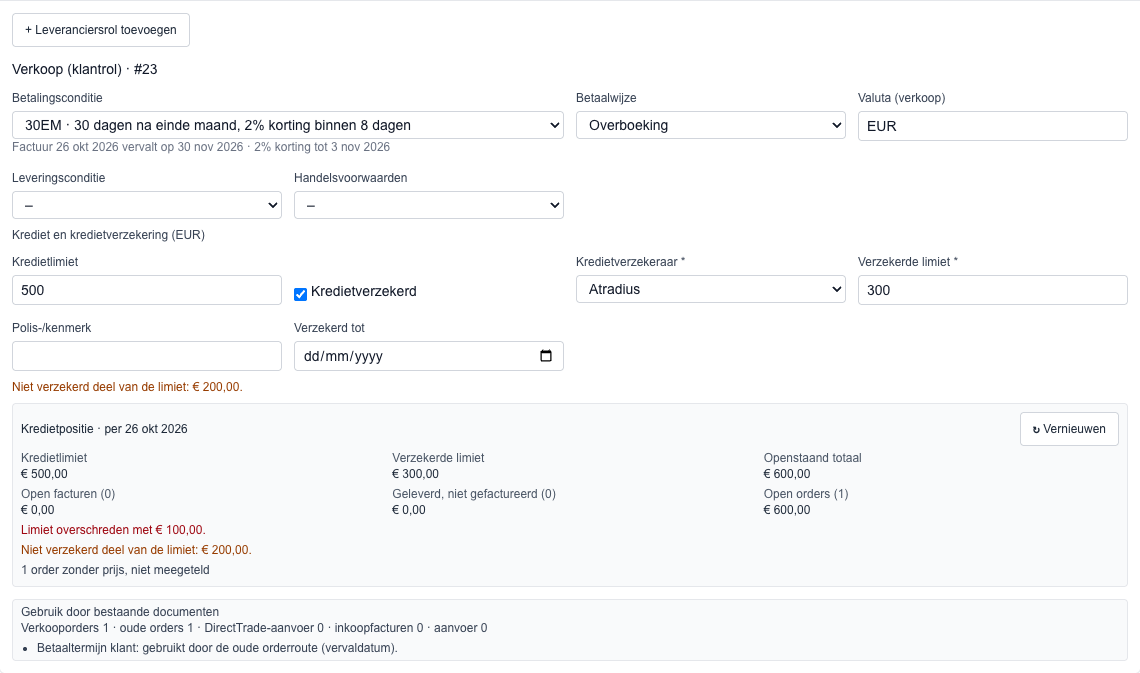
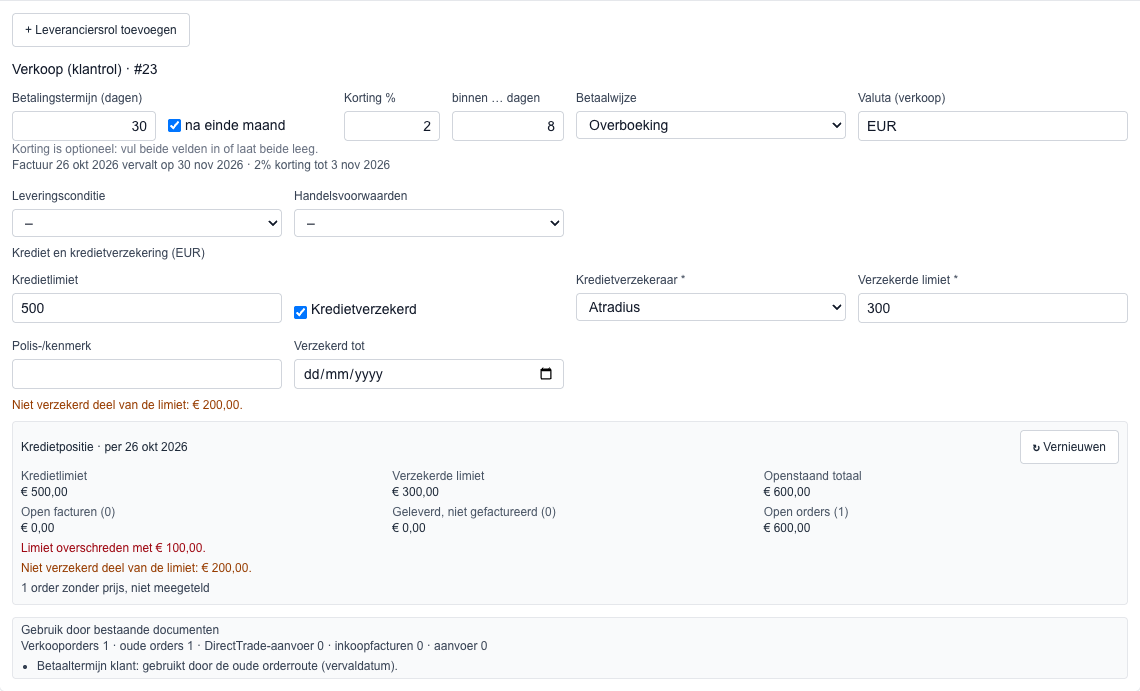
Relaties: screenshots vrije betalingstermijn
Nieuw: 15 (termijn vrij ingevuld), 16 (met korting), 17 (390 px). Opnieuw
gemaakt: 02 en 13, die nog de keuzelijst met betalingscondities toonden.

diff --git a/docs/relaties-fase2-2026-10/README.md b/docs/relaties-fase2-2026-10/README.md
@@ -1,11 +1,11 @@
 # Relaties fase 2 (PR 1): screenshots
 
-Echte UI (Playwright met geïnstalleerde Chrome) tegen de lokale database `agf_smoke`, smokelabel `SMOKE-FIN-8914`.
+Echte UI (Playwright met geïnstalleerde Chrome) tegen de lokale database `agf_smoke`, smokelabel `SMOKE-FIN-8914`; de vrije betalingstermijn (vervolg op #55) met smokelabel `SMOKE-TERMS-9FC3`.
 
 | Bestand | Wat je ziet |
 |---|---|
 | `01-instellingen-betalingscondities.png` | Instellingen: nieuwe conditie 30EM (einde maand, 2% korting binnen 8 dagen) met voorbeeldvervaldatum. |
-| `02-relatie-bank-krediet.png` | Klantrol: betalingsconditie, kredietlimiet, verzekering en kredietpositie met overschrijding, verzekeringsgat en "1 order zonder prijs, niet meegeteld". |
+| `02-relatie-bank-krediet.png` | Klantrol: betalingstermijn 30 dagen na einde maand met 2% korting binnen 8 dagen (vrije invoer, geen keuzelijst meer), kredietlimiet, verzekering en kredietpositie met overschrijding, verzekeringsgat en "1 order zonder prijs, niet meegeteld". |
 | `03-bankrekening-onbevestigd.png` | Nieuwe bankrekening: geldige IBAN maar "Niet bevestigd"; bevestigen kan pas met een naam bij "Wie". |
 | `03b-bankwaarschuwing-banner.png` | Opvallende melding op de kaart: standaardbankrekening niet bevestigd, plus de e-mail- en verzekeringswaarschuwingen. |
 | `04-bankrekening-bevestigd.png` | Na bevestigen: "Bevestigd door … op …" en de wijzigingsregels (toegevoegd, bevestigd). |
@@ -17,5 +17,8 @@ Echte UI (Playwright met geïnstalleerde Chrome) tegen de lokale database `agf_s
 | `10-ontvangst-ggn-waarschuwing.png` | Ontvangst: gekozen GGN met verlopen certificaat geeft een waarschuwing (niet blokkerend). |
 | `11-mobiel-390-relatie.png` | Relatiekaart op 390 px: krediet en bankrekeningen. |
 | `12-mobiel-390-instellingen.png` | Instellingen op 390 px: de knoppen staan onder de omschrijving. |
-| `13-relatie-en.png` | Relatiekaart (klantrol en krediet) in het Engels. |
+| `13-relatie-en.png` | Relatiekaart (klantrol met vrije betalingstermijn en krediet) in het Engels. |
 | `14-betalingsconditie-in-gebruik.png` | Verwijderen van een gebruikte conditie (30D) geweigerd, met de aantallen en "Inactief zetten". |
+| `15-termijn-vrij-ingevuld.png` | Betalingstermijn getypt: 45 dagen, "na einde maand" aangevinkt, geen korting; de voorbeeldregel rekent bij elke toetsaanslag mee. Leeg veld toont de standaard grijs ("30 (standaard)"). |
+| `16-termijn-met-korting.png` | Zelfde termijn met 2% korting binnen 10 dagen: de voorbeeldregel toont nu ook de kortingsdatum. Eén kortingsveld leeg gelaten = fout bij het lege veld en daar de focus. |
+| `17-mobiel-390-termijn.png` | Termijnvelden op 390 px: dagen + "na einde maand" en korting % + dagen in twee gelijke kolommen. |
